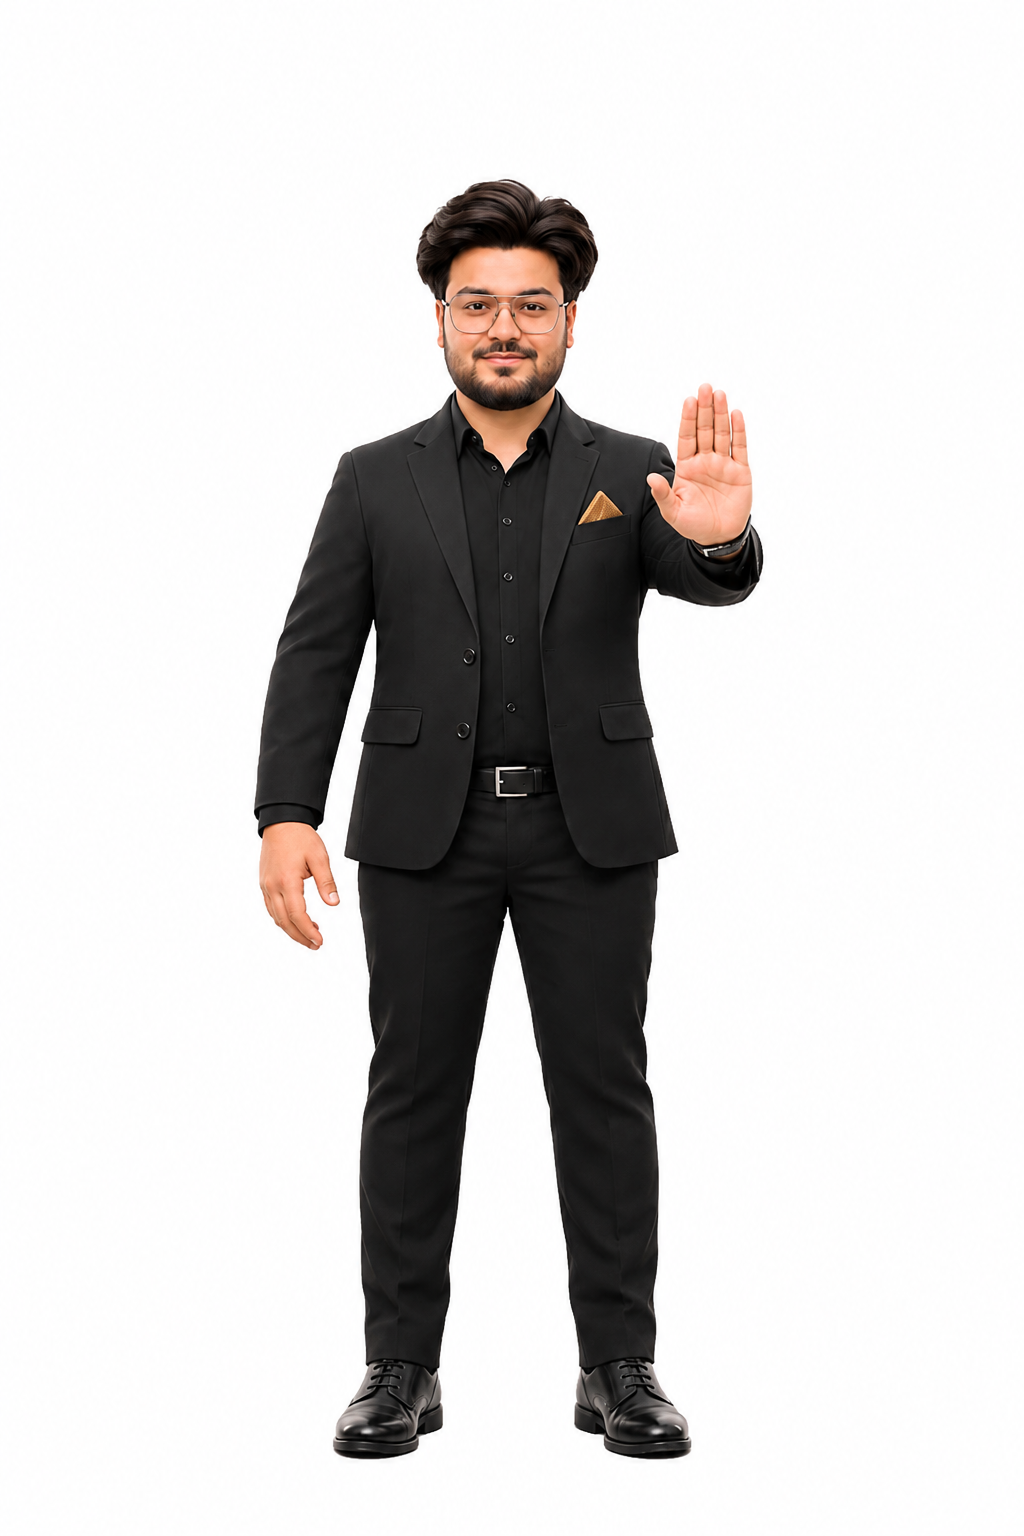
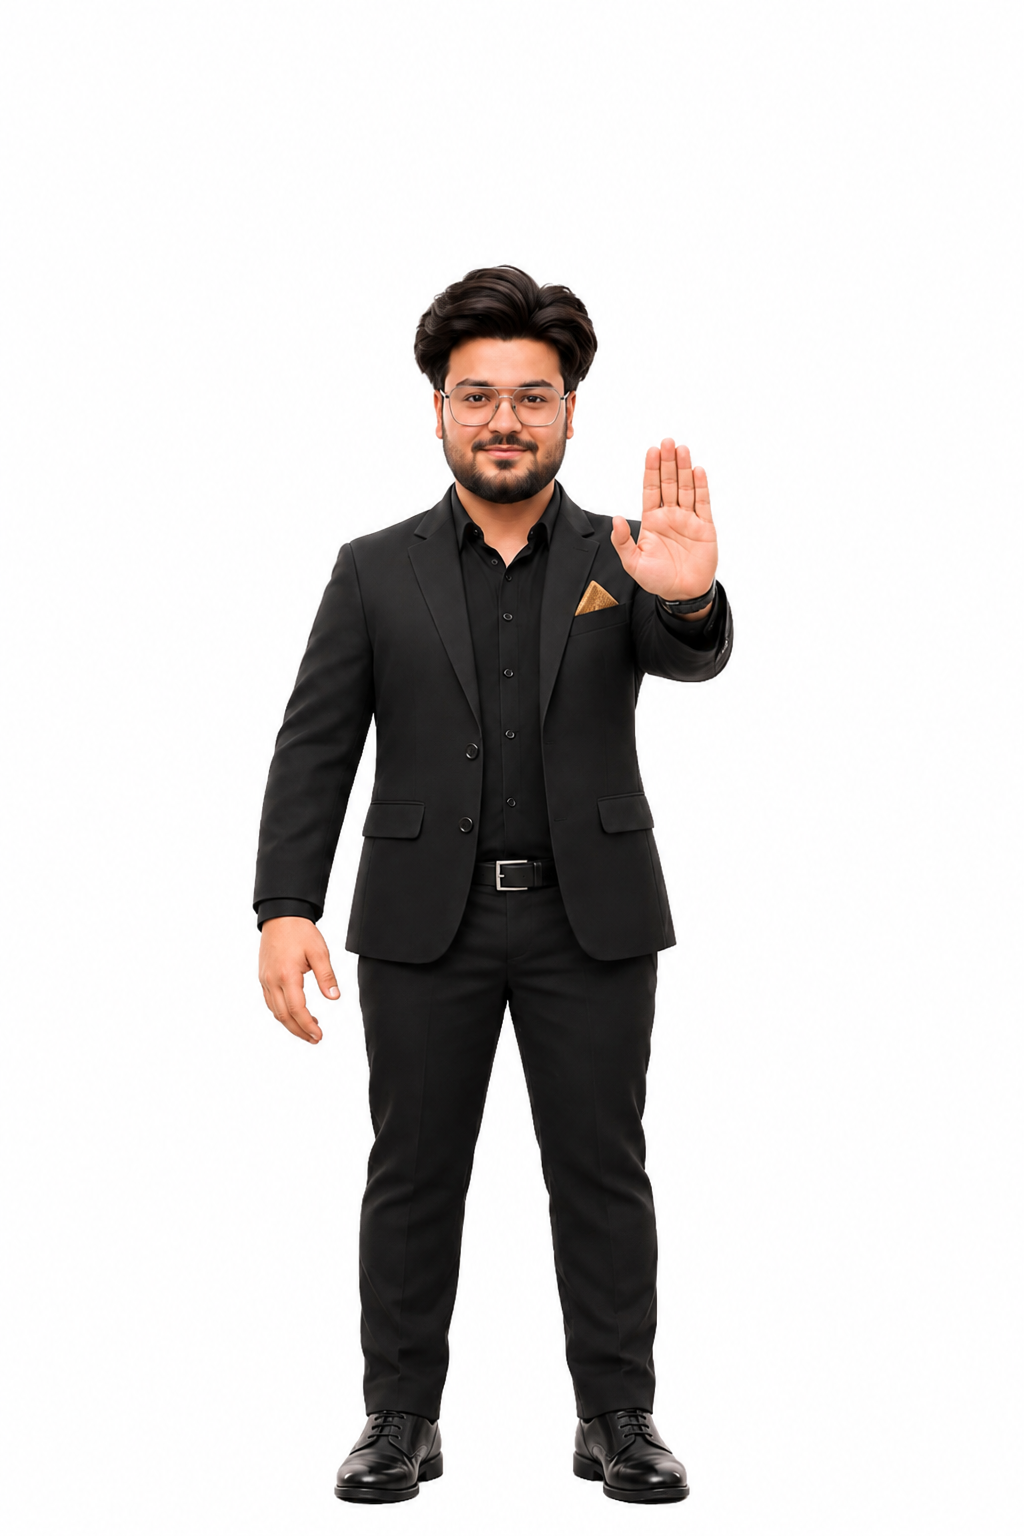
All v020 gesture keys from Kie (31 images incl. 3 regenerated because the figure shifted), kie_edit: unique upload names, no-reframe wording
Claude-Session: https://claude.ai/code/session_01B1Bc7HDLqT9s7tYbV9Ggc6

diff --git a/mascot/anim/tools/kie_edit.py b/mascot/anim/tools/kie_edit.py
@@ -46,7 +46,8 @@ def edit(out, instruction, images, timeout=600):
     urls = [upload(p) for p in images]
     prompt = ("Image EDIT task. The FIRST image is the base image" + (", the other images are references" if len(urls) > 1 else "")
               + ". " + instruction + " Keep EVERYTHING else exactly as in the base image: the same man, face, head position, "
-              "torso, legs, shoes, scale and position in the frame, lighting and the pure white background. Natural "
+              "torso, legs, shoes, scale and position in the frame, lighting and the pure white background. The figure "
+              "must stay the same size at the same place in the picture: do not zoom, crop, re-frame or move him. Natural "
               "anatomy, five fingers per hand. No text.")
     tid = _json(f"{API}/jobs/createTask", {"model": MODEL, "input": {"prompt": prompt, "input_urls": urls, "aspect_ratio": "2:3"}})["taskId"]
     t0 = time.time()
